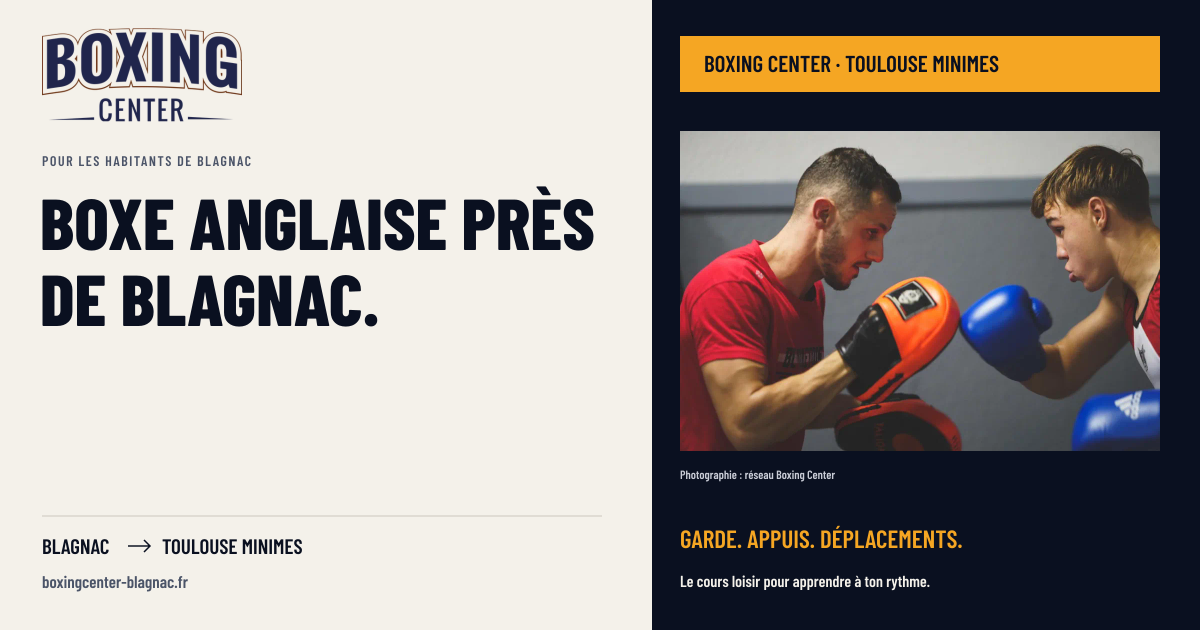
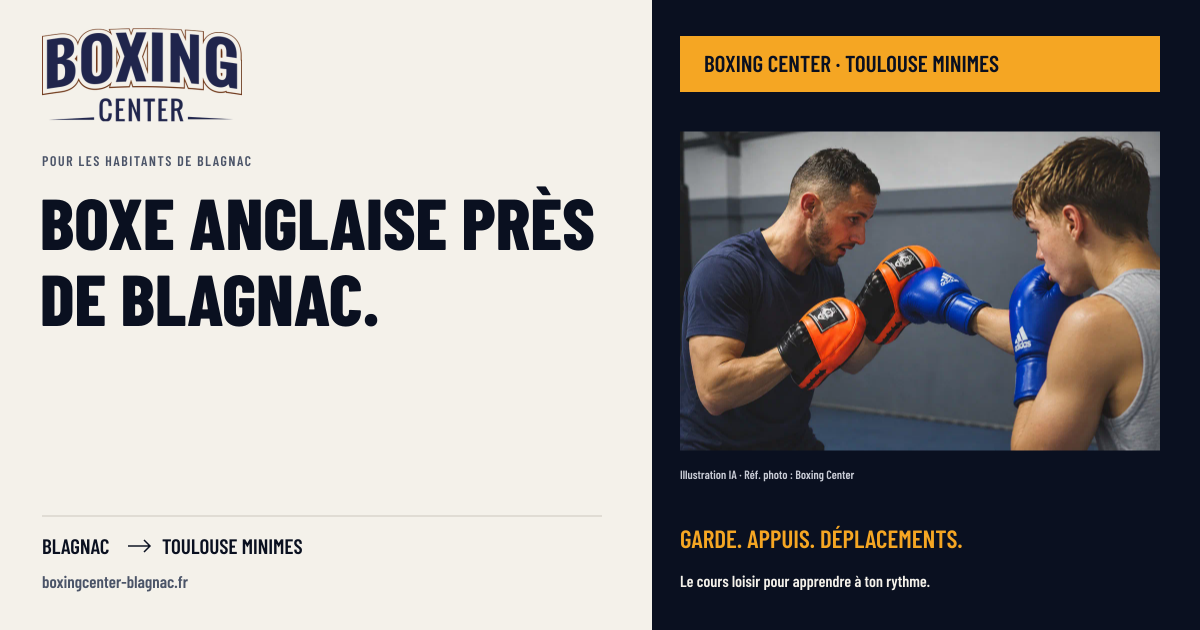
Refresh seven club images with credited AI views and responsive assets

Changed region(s): [[0.555, 0.181, 0.9867, 0.7841]]

diff --git a/src/styles/global.css b/src/styles/global.css
@@ -139,12 +139,13 @@
   .legal-list dt { font-size: 11px; text-transform: uppercase; letter-spacing: .08em; font-weight: 800; padding-top: 3px; }
   .legal-list dd { margin: 0; }
   .hero-visual { position: relative; padding-top: 29px; padding-left: 8%; padding-bottom: 84px; }
-  .hero-main-photo { height: 450px; transform: rotate(2deg); animation: photo-arrive .85s cubic-bezier(.16,.8,.23,1) both; }
-  .hero-main-photo img { height: 100%; object-position: 56% center; }
+  .hero-main-photo { height: 450px; transform: rotate(2deg); animation: photo-tilt .85s cubic-bezier(.16,.8,.23,1) both; }
+  .hero-main-photo img { height: 100%; object-position: 56% center; animation: photo-arrive .85s cubic-bezier(.16,.8,.23,1) both; }
   .hero-main-photo figcaption { transform: rotate(-2deg); font-size: 10px; padding-top: 4px; text-align: right; }
   .hero-stamp { position: absolute; top: 0; right: 22px; display: flex; flex-direction: column; gap: 2px; align-items: center; width: 220px; padding: 16px 12px; background: var(--mint); color: var(--ink); transform: rotate(-7deg); z-index: 3; border: 1px solid var(--ink); box-shadow: 3px 4px 0 var(--ink); }
   .hero-stamp { animation: stamp-arrive .65s .22s cubic-bezier(.2,.8,.2,1) both; }
-  @keyframes photo-arrive { from { clip-path: inset(0 100% 0 0); transform: rotate(0); } to { clip-path: inset(0); transform: rotate(2deg); } }
+  @keyframes photo-arrive { from { clip-path: inset(0 100% 0 0); } to { clip-path: inset(0); } }
+  @keyframes photo-tilt { from { transform: rotate(0); } to { transform: rotate(2deg); } }
   @keyframes stamp-arrive { from { opacity: 0; transform: translateY(-12px) rotate(-12deg); } to { opacity: 1; transform: translateY(0) rotate(-7deg); } }
   .hero-stamp span { font-size: 10px; font-weight: 800; letter-spacing: .06em; }
   .hero-stamp strong { font: 800 41px/.95 var(--display); }

diff --git a/src/pages/sitemap.xml.ts b/src/pages/sitemap.xml.ts
@@ -10,7 +10,7 @@ export function GET() {
   return new Response(`<?xml version="1.0" encoding="UTF-8"?>\n<urlset xmlns="http://www.sitemaps.org/schemas/sitemap/0.9" xmlns:image="http://www.google.com/schemas/sitemap-image/1.1">\n${entries.map(page => {
     const modified = lastModified(page.slug);
     // Seules les photographies effectivement visibles sur cette page sont déclarées.
-    const keys = !page.slug ? ['hero','ring','event', ...['boxing','fitness','kids','women','mma']] : ['plannings','tarifs','contact','confidentialite','mentions-legales'].includes(page.slug) ? [] : [page.image];
+    const keys = !page.slug ? [home.image,'ring','event', ...['boxing','fitness','kids','women','mma']] : ['plannings','tarifs','contact','confidentialite','mentions-legales'].includes(page.slug) ? [] : [page.image];
     return `<url><loc>${escapeXml(canonicalOf(page.slug))}</loc>${modified ? `<lastmod>${modified}</lastmod>` : ''}${keys.map(key => `<image:image><image:loc>${escapeXml(`${SITE}${photos[key].variants.at(-1).src}`)}</image:loc></image:image>`).join('')}</url>`;
   }).join('\n')}\n</urlset>`, { headers: { 'Content-Type': 'application/xml; charset=utf-8' } });
 }

diff --git a/docs/IMAGE-REFRESH.md b/docs/IMAGE-REFRESH.md
@@ -1,0 +1,50 @@
+# Images — passe du 5 octobre 2026
+
+Demande d’Eddy : réduire la répétition des images, employer GPT Image via Higgsfield avec les mêmes personnes et les mêmes décors comme références, changer les angles, gestes et tenues, économiser les crédits, intégrer puis pousser.
+
+## Production et coût
+
+Sept vues réalisées avec `gpt_image_2_5` / GPT Image 2.5, variante `flare`, qualité `medium`, résolution `2k`, format `3:2`, une sortie par demande. Une première vue a été contrôlée avant de lancer les six suivantes. Toutes les demandes ont réussi au premier essai ; aucune régénération payante.
+
+- Solde Higgsfield avant : **232,75 crédits**.
+- Dépense totale : **7 crédits** (1 par image, environ 3 % du solde).
+- Solde constaté après : **225,75 crédits**.
+- Aucun crédit Codex supplémentaire consacré à des générations via un autre fournisseur.
+- Les paramètres, prompts exacts, identifiants de génération et URL des photographies sources sont conservés dans [image-generation.json](image-generation.json).
+
+## Intégration
+
+| Page | Nouvelle vue (`public/images/`, suffixes 480/960/1600) |
+| --- | --- |
+| Accueil | `club-boxe-blagnac-boxing-center-garde-angle-ia` |
+| Le club | `salle-boxe-proche-blagnac-ring-coach-angle-ia` |
+| Boxe anglaise | `boxe-anglaise-blagnac-pattes-ours-angle-ia` |
+| Boxing fitness | `boxe-fitness-blagnac-sac-garde-angle-ia` |
+| Enfants | `cours-boxe-enfants-blagnac-garde-ring-angle-ia` |
+| Femmes | `boxe-femme-blagnac-duo-technique-angle-ia` |
+| MMA | `club-mma-blagnac-boxing-center-corde-angle-ia` |
+
+Les sept vues principales sont distinctes des photographies d’origine conservées dans les cartes de l’accueil. Les originaux, leurs filigranes et leurs crédits sont intacts. Les pages pratiques sans photographie visible ne nécessitaient pas de nouvelle génération.
+
+Les masters générés mesurent 2048 × 1360 px. Les 21 variantes WebP commises représentent **1 625 848 octets** au total (environ 1,55 Mio) ; les fichiers de 960 px font entre 50 834 et 89 830 octets. Les masters PNG restent dans `.research/generated-images/`, ignoré par Git. Un clone dispose des variantes WebP nécessaires au build et à la livraison.
+
+`src/data/photos.mjs` centralise ALT, légendes, référence, crédit, modèle, fournisseur et provenance. `Picture.astro` affiche « Illustration IA » et le crédit de la photographie de référence. Ces scènes sont des illustrations dérivées, pas des preuves d’une séance réellement photographiée. Le décor provient de chaque référence ; aucune nouvelle salle à Blagnac n’est présentée. Seule la référence du ring identifie les Minimes ; les autres légendes parlent du réseau ou du tournoi.
+
+Les sept vignettes sociales correspondantes sont actualisées avec cette même provenance ; `og:image:alt`, `twitter:image:alt`, le sitemap d’images, `humans.txt` et les fichiers LLM suivent les nouveaux visuels. Les informations commerciales, les destinations, le tutoiement et le formulaire du travail précédent sont conservés. La mise à jour GitHub `e8b9a76` / `72f65ac`, reçue avant le push, choisit Minimes comme palette par défaut : elle est intégrée et les vignettes sont régénérées en marine/or, sans nouvelle génération payante. Le bouton Blagnac reste disponible.
+
+La révélation photo de l’accueil rognait toute la figure et masquait sa légende, située sous sa hauteur fixe. `global.css` applique désormais le rognage animé à l’image seule, avec la rotation sur la figure : la légende et son crédit restent visibles.
+
+## Vérifications
+
+- `npm ci --no-fund`, préparation des variantes, puis `npm run build` réussi, y compris le test de rendu des polices, 14 vignettes et l’audit des 12 pages indexables / 15 expressions du brief.
+- Audit complété : ALT et légendes IA, crédits des références, sept vues principales uniques, dimensions des variantes et provenance des métadonnées sociales.
+- Originaux et sept résultats inspectés individuellement ; sept vignettes relues sur une planche de contrôle.
+- Douze pages parcourues à 1440, 768 et 390 px : accueil, club, cinq disciplines, plannings, tarifs, contact, mentions légales, 404. Images chargées, aucune erreur/alerte console, aucun débordement horizontal. Recadrage mobile et légende contrôlés visuellement.
+- Captures locales ignorées par Git : `docs/qa/image-refresh-desktop.png`, `image-refresh-mobile.png`, `image-refresh-social.png`.
+- `git diff --check` réussi. Auteur et commetteur : Eddy-etame, sans trailer d’assistant.
+
+Ces contrôles concernent la sortie locale `.vercel/output/static`, servie sur le port 4323. Ils ne constituent pas une confirmation du déploiement Vercel ni de l’indexation du domaine. Aucun formulaire réel n’a été envoyé.
+
+## Point de dépendances constaté
+
+L’installation actuelle signale trois entrées de sévérité élevée liées à la chaîne `@astrojs/vercel` → `@vercel/routing-utils` → `path-to-regexp` (GHSA-9wv6-86v2-598j). Elles existaient dans les dépendances de la passe précédente. Aucun changement de dépendance dans cette passe images ; ne pas appliquer aveuglément la rétrogradation majeure proposée par `npm audit fix --force`. La correction doit préserver l’adaptateur Astro/Vercel et faire l’objet d’une vérification séparée. Les anciens résultats « zéro vulnérabilité » de `PROJECT-STATE.md` sont historiques.

diff --git a/docs/PROJECT-STATE.md b/docs/PROJECT-STATE.md
@@ -2,6 +2,12 @@
 
 > Lire d’abord `docs/HANDOFF.md` : directives d’Eddy en vigueur, journal des chantiers, reste à faire. Ce fichier conserve l’historique des passes.
 
+## Passe du 5 octobre 2026 — renouvellement des images
+
+Sept vues GPT Image 2.5 via Higgsfield, issues des mêmes personnes/décors de référence avec de nouveaux angles, gestes et tenues ; 7 crédits utilisés sur 232,75, solde 225,75. Sept photos principales distinctes des cartes de l’accueil, 21 variantes WebP (1,55 Mio), ALT précis, légendes IA et crédits des références, sept vignettes sociales actualisées, sitemap et fichiers de découverte synchronisés. Les améliorations d’Eddy du 4 octobre sont conservées, ainsi que le choix de Minimes comme palette par défaut reçu sur GitHub (`e8b9a76` / `72f65ac`) avant le push. Les OG utilisent marine/or. Le clip animé de l’accueil a été corrigé pour laisser la légende visible.
+
+Validation : installation propre, préparation d’images et build réussi ; audit de 12 pages indexables / 15 requêtes plus contrôles des illustrations ; douze pages à 1440/768/390 px, console vide, aucun débordement, images chargées et recadrages relus. Prompts et coût : `docs/image-generation.json`. Compte rendu et point sur les trois alertes élevées héritées des dépendances Vercel : `docs/IMAGE-REFRESH.md`. Les contrôles locaux ne confirment pas le nouveau déploiement distant ; formulaire Inlet et domaine restent à vérifier séparément.
+
 ## Passe du 4 octobre 2026 (soir, suite) — tutoiement, formulaire, toggle, motion
 
 Détail complet dans `docs/HANDOFF.md`, journal du 4 octobre (deuxième passe). Résumé : tutoiement généralisé ; navigation d’en-tête vers les pages du site ; séance d’essai à 10 € (seul montant publié) ; formulaire de contact relayé via Inlet avec adaptateur Vercel (`INLET_FORM_ID` à définir) ; fiche de départ envoyée au formulaire ; décoration générique et fondus retirés ; trajet Blagnac → Minimes tracé et sceau du ticket ; variante de couleurs « Minimes » à l’essai, bascule dans le pied de page.

diff --git a/docs/FACTS.md b/docs/FACTS.md
@@ -91,6 +91,10 @@ Ces images peuvent illustrer une activité du réseau lorsque le geste est cohé
 
 Les archives Fight Event fournies par le propriétaire sont des photos d’événement. Une scène de compétition ne constitue pas une preuve d’un cours hebdomadaire, d’un programme enfant ou d’une localisation. Ne pas modifier le décor pour faire passer une image d’une autre salle pour une salle Minimes ou Blagnac.
 
+### Illustrations dérivées ajoutées le 5 octobre 2026
+
+À la demande d’Eddy, sept nouvelles vues sont générées avec GPT Image 2.5 via Higgsfield depuis les photographies déjà sélectionnées, en conservant personnes et architecture comme références et en changeant angles, gestes et tenues. Les sources originales sont préservées. Chaque nouvelle vue est légendée « Illustration IA » et cite le crédit de sa photographie de référence ; elle ne prouve pas une séance effectivement photographiée ni une implantation à Blagnac. La référence du ring porte la fresque des Minimes ; les autres restent qualifiées comme illustrations du réseau ou d’un tournoi. Registre technique et prompts : `docs/image-generation.json` ; ALT et provenance : `src/data/photos.mjs`.
+
 ## Différenciation et SEO
 
 Chaque page répond à une question propre : choisir le club, comprendre une discipline, choisir un groupe, consulter le planning, comparer les conditions ou préparer une visite. Le contenu utile doit être présent dans le HTML, y compris sans JavaScript.
